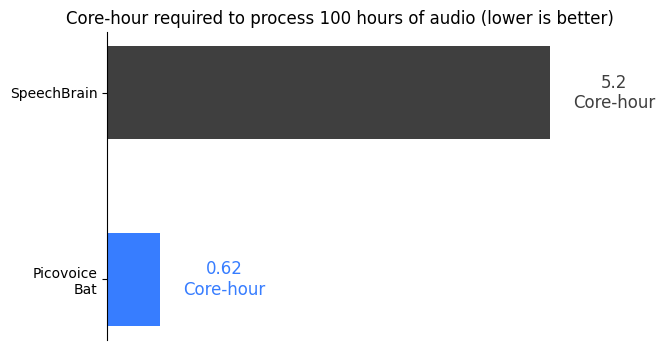
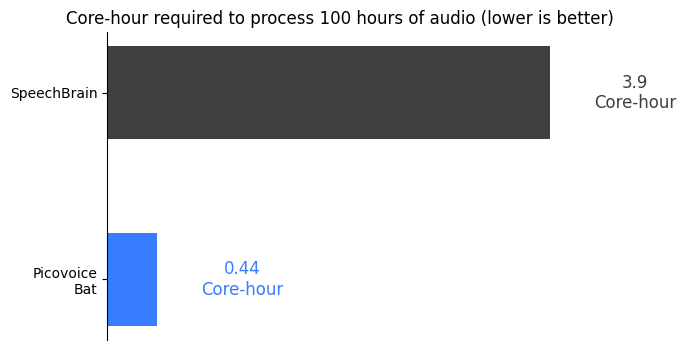
Address PR comments

diff --git a/benchmark.py b/benchmark.py
@@ -7,6 +7,8 @@ from typing import (
     Dict
 )
 
+import torch
+
 from pvbat import BatLanguages
 from dataset import *
 from engine import *
@@ -38,6 +40,8 @@ def main() -> None:
     parser.add_argument("--picovoice-access-key")
     parser.add_argument("--picovoice-device", default="cpu:1")
     args = parser.parse_args()
+
+    torch.set_num_threads(1)
 
     dataset = Datasets(args.dataset)
     engine = Engines(args.engine)

diff --git a/README.md b/README.md
@@ -74,8 +74,7 @@ python3 -m benchmark \
 
 ## Results
 
-Measurement is carried on an `Ubuntu 24.04.3 LTS` machine with Intel CPU (`Intel(R) Core(TM) i7-1185G7 @ 3.00GHz`),
-16 GB of RAM, and NVMe storage.
+This benchmark has been developed and tested on `Ubuntu 22.04`, using `Python 3.10`, and a consumer-grade AMD CPU (`AMD Ryzen 9 5900X (12) @ 3.70GHz`).
 
 ### Accuracy
 
@@ -90,8 +89,8 @@ Measurement is carried on an `Ubuntu 24.04.3 LTS` machine with Intel CPU (`Intel
 
 |     Engine      | Model Size |
 |:---------------:|:----------:|
-|  Picovoice Bat  |    5.1MB   |
-|   SpeechBrain   |  115.20MB  |
+|  Picovoice Bat  |    5.18MB  |
+|   SpeechBrain   |  117.57MB  |
 
 ![](./results/plots/mem.png)
 
@@ -99,7 +98,7 @@ Measurement is carried on an `Ubuntu 24.04.3 LTS` machine with Intel CPU (`Intel
 
 |     Engine      |  Core-Hour |
 |:---------------:|:----------:|
-|  Picovoice Bat  |    0.62    |
-|   SpeechBrain   |    5.20    |
+|  Picovoice Bat  |    0.44    |
+|   SpeechBrain   |    3.90    |
 
 ![](./results/plots/cpu.png)
